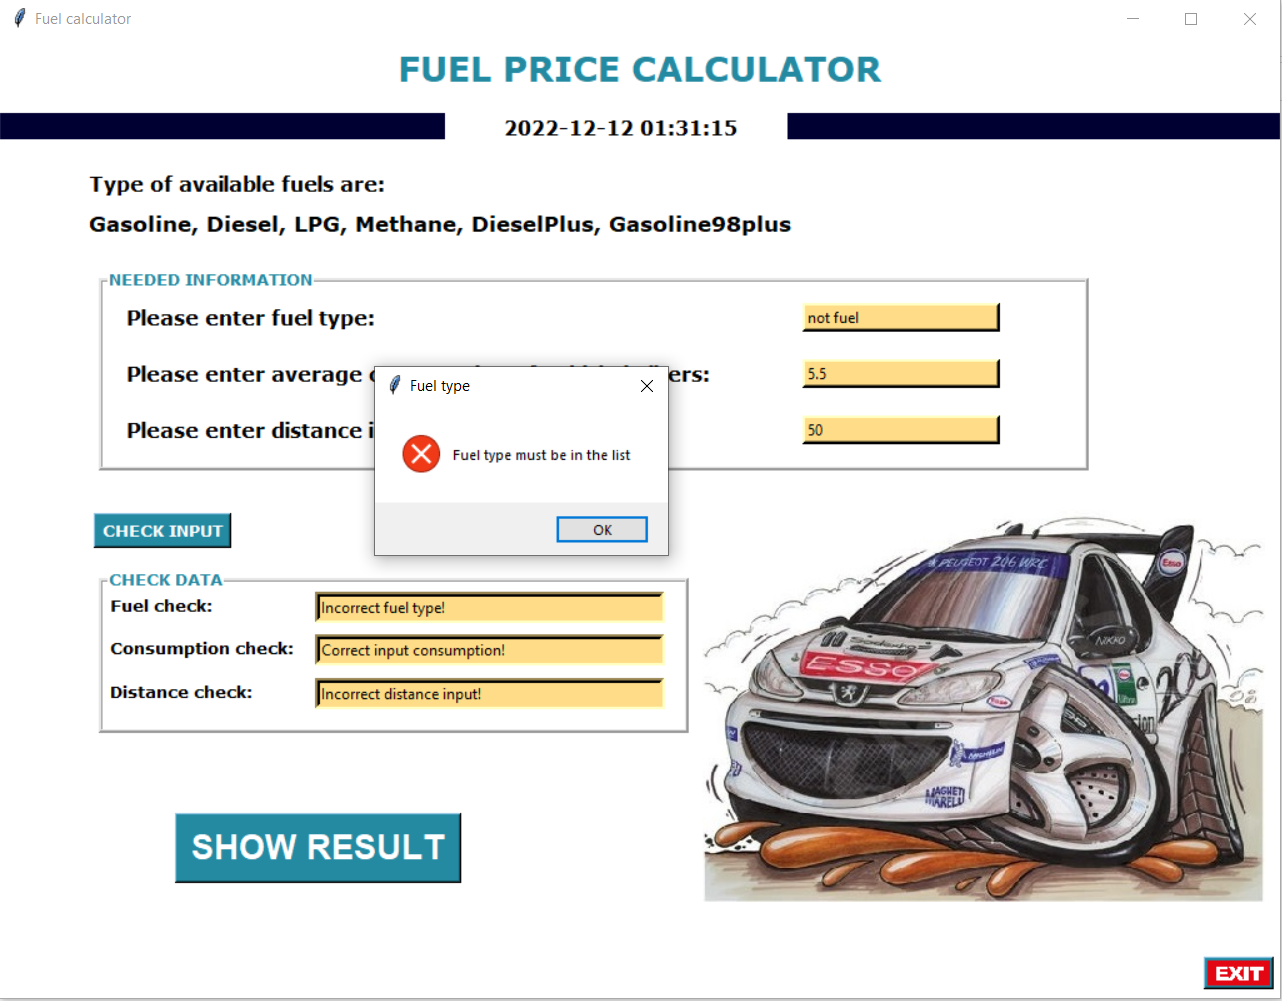
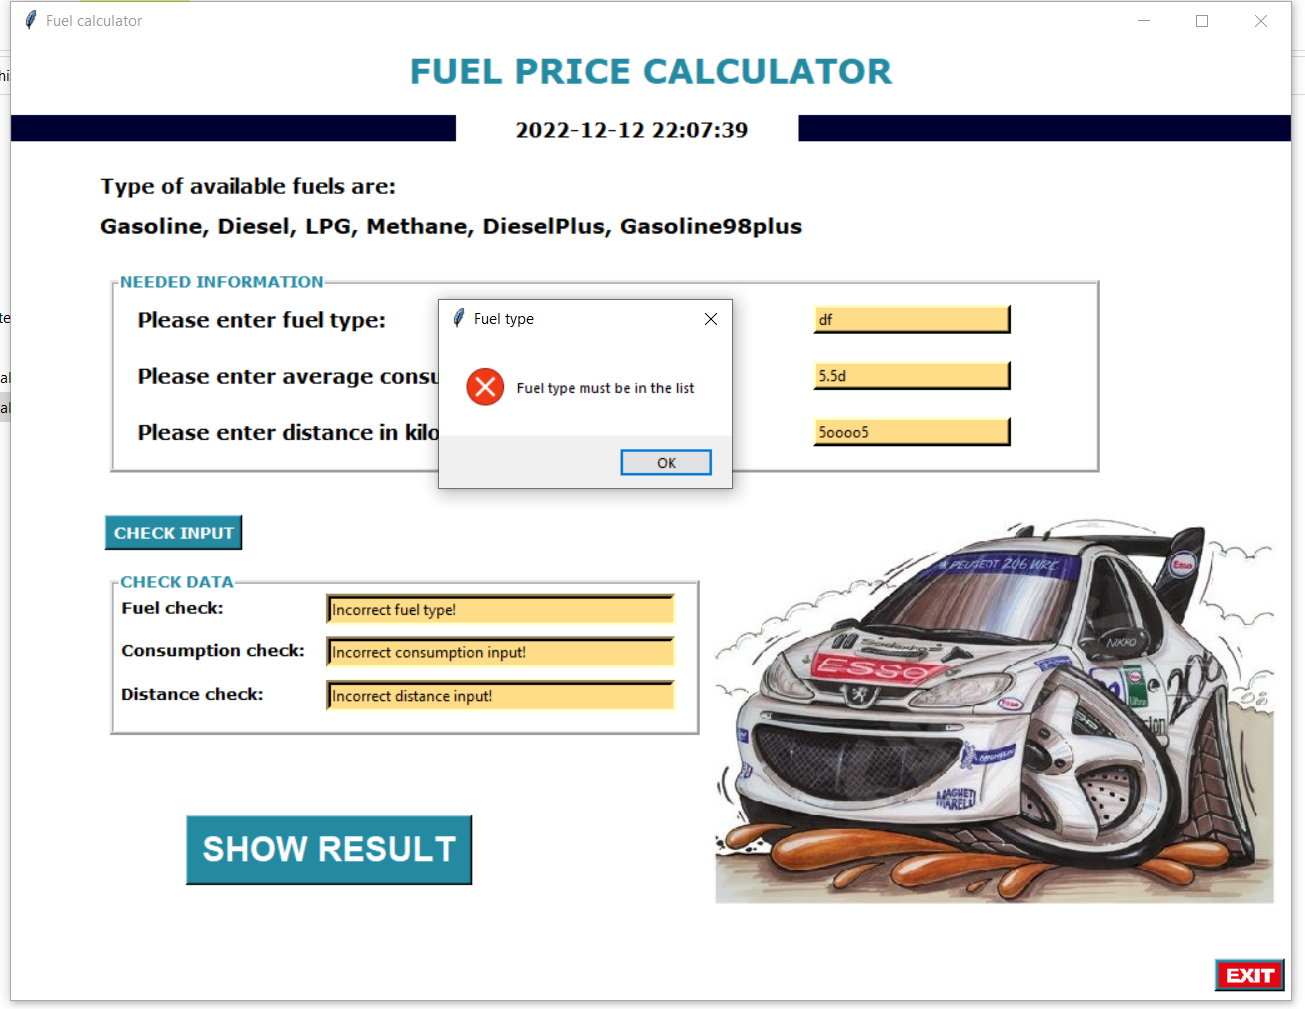
update calculator
Some bug fixes. Added Regex validation for input of distance and average consumption.

diff --git a/README.md b/README.md
@@ -33,6 +33,9 @@ Examples of this small project
 ![img.png](example03.png)
 
 
+![img.png](example04.png)
+
+
 Some of output data may contains cyrilic alphabeth becouse sourse is Bulgarian Web Site.
 
 With kindly permission of  [bg.fuelot.net](https://bg.fuelo.net/)
